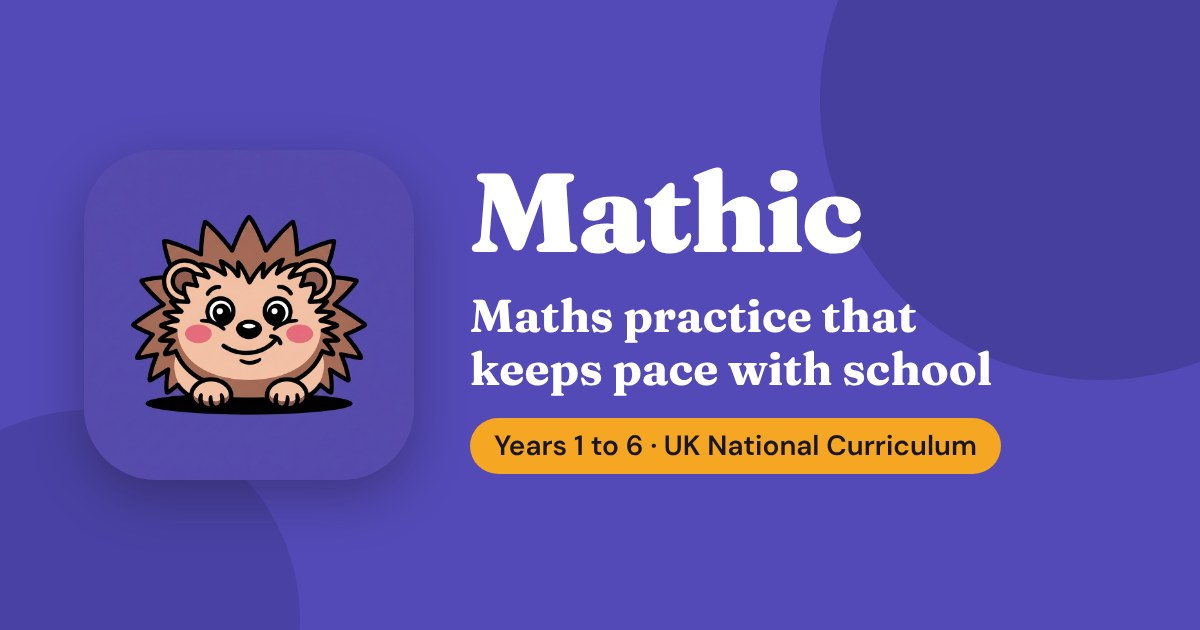
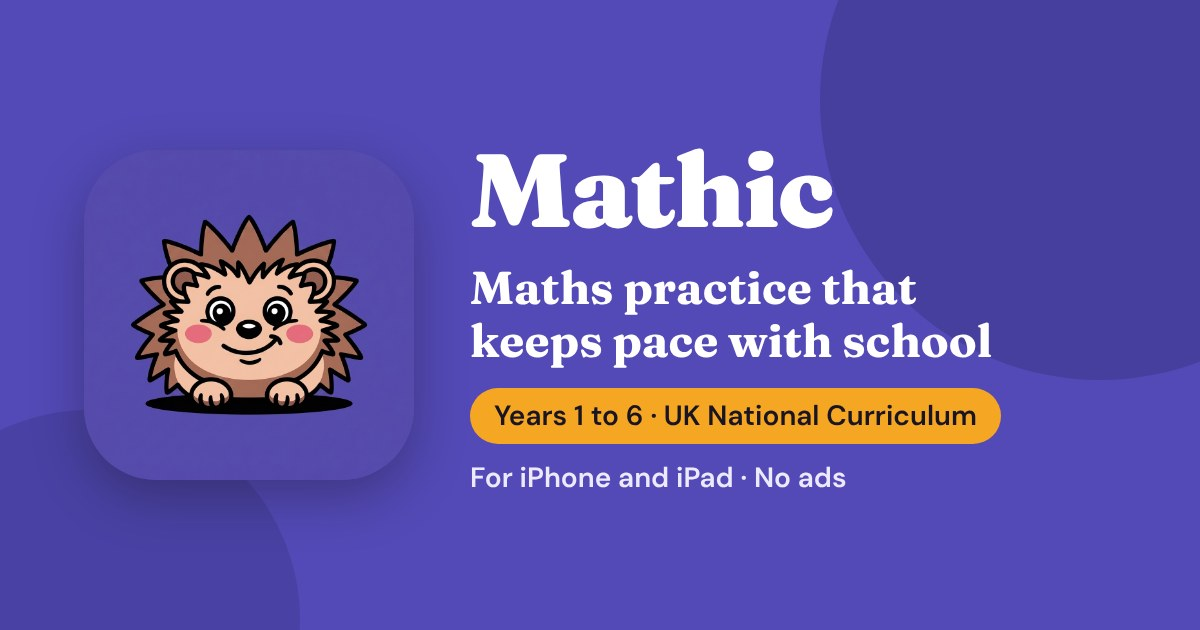
WEB-6: home title and description for search, help description, share image adds iPhone and iPad and No ads (Maths Lead review, checked against the site)
Claude-Session: https://claude.ai/code/session_01LXaTpDVtCMEfUu7fAHW5oG

Changed region(s): [[0.37, 0.2413, 0.8325, 0.7841]]

diff --git a/index.html b/index.html
@@ -3,18 +3,18 @@
 <head>
   <meta charset="UTF-8" />
   <meta name="viewport" content="width=device-width, initial-scale=1.0" />
-  <title>Mathic — Maths practice that keeps pace with school</title>
-  <meta name="description" content="Maths for Years 1 to 6 that follows the UK National Curriculum in the order most schools teach it. Island adventures and a free 7-day trial." />
+  <title>Mathic — Primary Maths App for Years 1 to 6</title>
+  <meta name="description" content="Coming soon to iPhone and iPad: maths for Years 1 to 6 that follows the UK National Curriculum. Island adventures, no ads and a free 7-day trial." />
   <!-- WEB-12b: link previews (WhatsApp, Facebook, iMessage) -->
   <meta property="og:type" content="website" />
   <meta property="og:url" content="https://mathic.app/" />
   <meta property="og:site_name" content="Mathic" />
-  <meta property="og:title" content="Mathic — Maths practice that keeps pace with school" />
-  <meta property="og:description" content="Maths for Years 1 to 6 that follows the UK National Curriculum in the order most schools teach it. Island adventures and a free 7-day trial." />
+  <meta property="og:title" content="Mathic — Primary Maths App for Years 1 to 6" />
+  <meta property="og:description" content="Coming soon to iPhone and iPad: maths for Years 1 to 6 that follows the UK National Curriculum. Island adventures, no ads and a free 7-day trial." />
   <meta property="og:image" content="https://mathic.app/og-image.jpg" />
   <meta property="og:image:width" content="1200" />
   <meta property="og:image:height" content="630" />
-  <meta property="og:image:alt" content="Mathic: maths practice that keeps pace with school. Years 1 to 6, UK National Curriculum." />
+  <meta property="og:image:alt" content="Mathic: maths practice that keeps pace with school. Years 1 to 6, UK National Curriculum. For iPhone and iPad. No ads." />
   <meta property="og:locale" content="en_GB" />
   <meta name="twitter:card" content="summary_large_image" />
   <link rel="canonical" href="https://mathic.app/" />

diff --git a/help.html b/help.html
@@ -4,17 +4,17 @@
   <meta charset="UTF-8" />
   <meta name="viewport" content="width=device-width, initial-scale=1.0" />
   <title>Help & FAQ — Mathic</title>
-  <meta name="description" content="Answers for parents: the free trial, the Free plan and Premium, adding children, acorns and Boss Rounds, cancelling, and how to contact us." />
+  <meta name="description" content="Answers for parents: the free trial, Free and Premium plans, adding children, acorns and Boss Rounds, cancelling, and how to contact us." />
   <link rel="canonical" href="https://mathic.app/help" />
   <meta property="og:type" content="website" />
   <meta property="og:url" content="https://mathic.app/help" />
   <meta property="og:site_name" content="Mathic" />
   <meta property="og:title" content="Help &amp; FAQ — Mathic" />
-  <meta property="og:description" content="Answers for parents: the free trial, the Free plan and Premium, adding children, acorns and Boss Rounds, cancelling, and how to contact us." />
+  <meta property="og:description" content="Answers for parents: the free trial, Free and Premium plans, adding children, acorns and Boss Rounds, cancelling, and how to contact us." />
   <meta property="og:image" content="https://mathic.app/og-image.jpg" />
   <meta property="og:image:width" content="1200" />
   <meta property="og:image:height" content="630" />
-  <meta property="og:image:alt" content="Mathic: maths practice that keeps pace with school. Years 1 to 6, UK National Curriculum." />
+  <meta property="og:image:alt" content="Mathic: maths practice that keeps pace with school. Years 1 to 6, UK National Curriculum. For iPhone and iPad. No ads." />
   <meta property="og:locale" content="en_GB" />
   <meta name="twitter:card" content="summary_large_image" />
   <link rel="preconnect" href="https://fonts.googleapis.com" />

diff --git a/privacy.html b/privacy.html
@@ -14,7 +14,7 @@
   <meta property="og:image" content="https://mathic.app/og-image.jpg" />
   <meta property="og:image:width" content="1200" />
   <meta property="og:image:height" content="630" />
-  <meta property="og:image:alt" content="Mathic: maths practice that keeps pace with school. Years 1 to 6, UK National Curriculum." />
+  <meta property="og:image:alt" content="Mathic: maths practice that keeps pace with school. Years 1 to 6, UK National Curriculum. For iPhone and iPad. No ads." />
   <meta property="og:locale" content="en_GB" />
   <meta name="twitter:card" content="summary_large_image" />
   <link rel="preconnect" href="https://fonts.googleapis.com" />

diff --git a/terms.html b/terms.html
@@ -14,7 +14,7 @@
   <meta property="og:image" content="https://mathic.app/og-image.jpg" />
   <meta property="og:image:width" content="1200" />
   <meta property="og:image:height" content="630" />
-  <meta property="og:image:alt" content="Mathic: maths practice that keeps pace with school. Years 1 to 6, UK National Curriculum." />
+  <meta property="og:image:alt" content="Mathic: maths practice that keeps pace with school. Years 1 to 6, UK National Curriculum. For iPhone and iPad. No ads." />
   <meta property="og:locale" content="en_GB" />
   <meta name="twitter:card" content="summary_large_image" />
   <link rel="preconnect" href="https://fonts.googleapis.com" />
